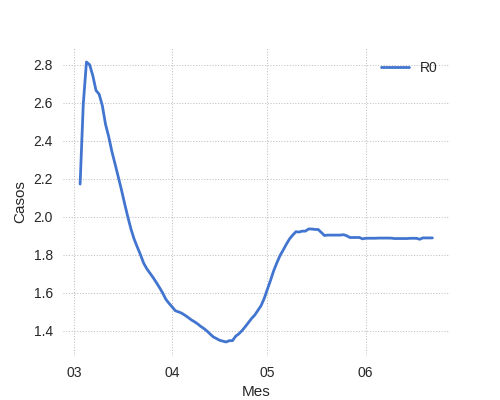
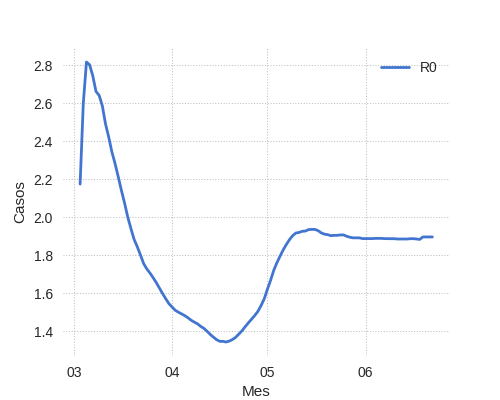
ajustes datos argentina

diff --git a/modelos/ajuste_SEIR_importados_casos_argentina.py b/modelos/ajuste_SEIR_importados_casos_argentina.py
@@ -24,7 +24,7 @@ datos_iniciales = pd.read_csv(ruta)
 
 # ajuste de parámetros
 print('Ajuste de parámetros diarios en base a los datos de los '+str(duracion_periodo)+' días posteriores')
-resultado = ajuste_modelos(modelo_SEIR_importados, datos_iniciales, serie_estimados, serie_observados, serie_parametro, duracion_periodo)
+resultado = ajuste_modelos(modelo_SEIR_importados, datos_iniciales, serie_estimados, serie_observados, serie_parametro, duracion_periodo, maximo_iteraciones_sin_cambios=50)
 
 # graficar el ajuste obtenido
 columnas_grafico = [
